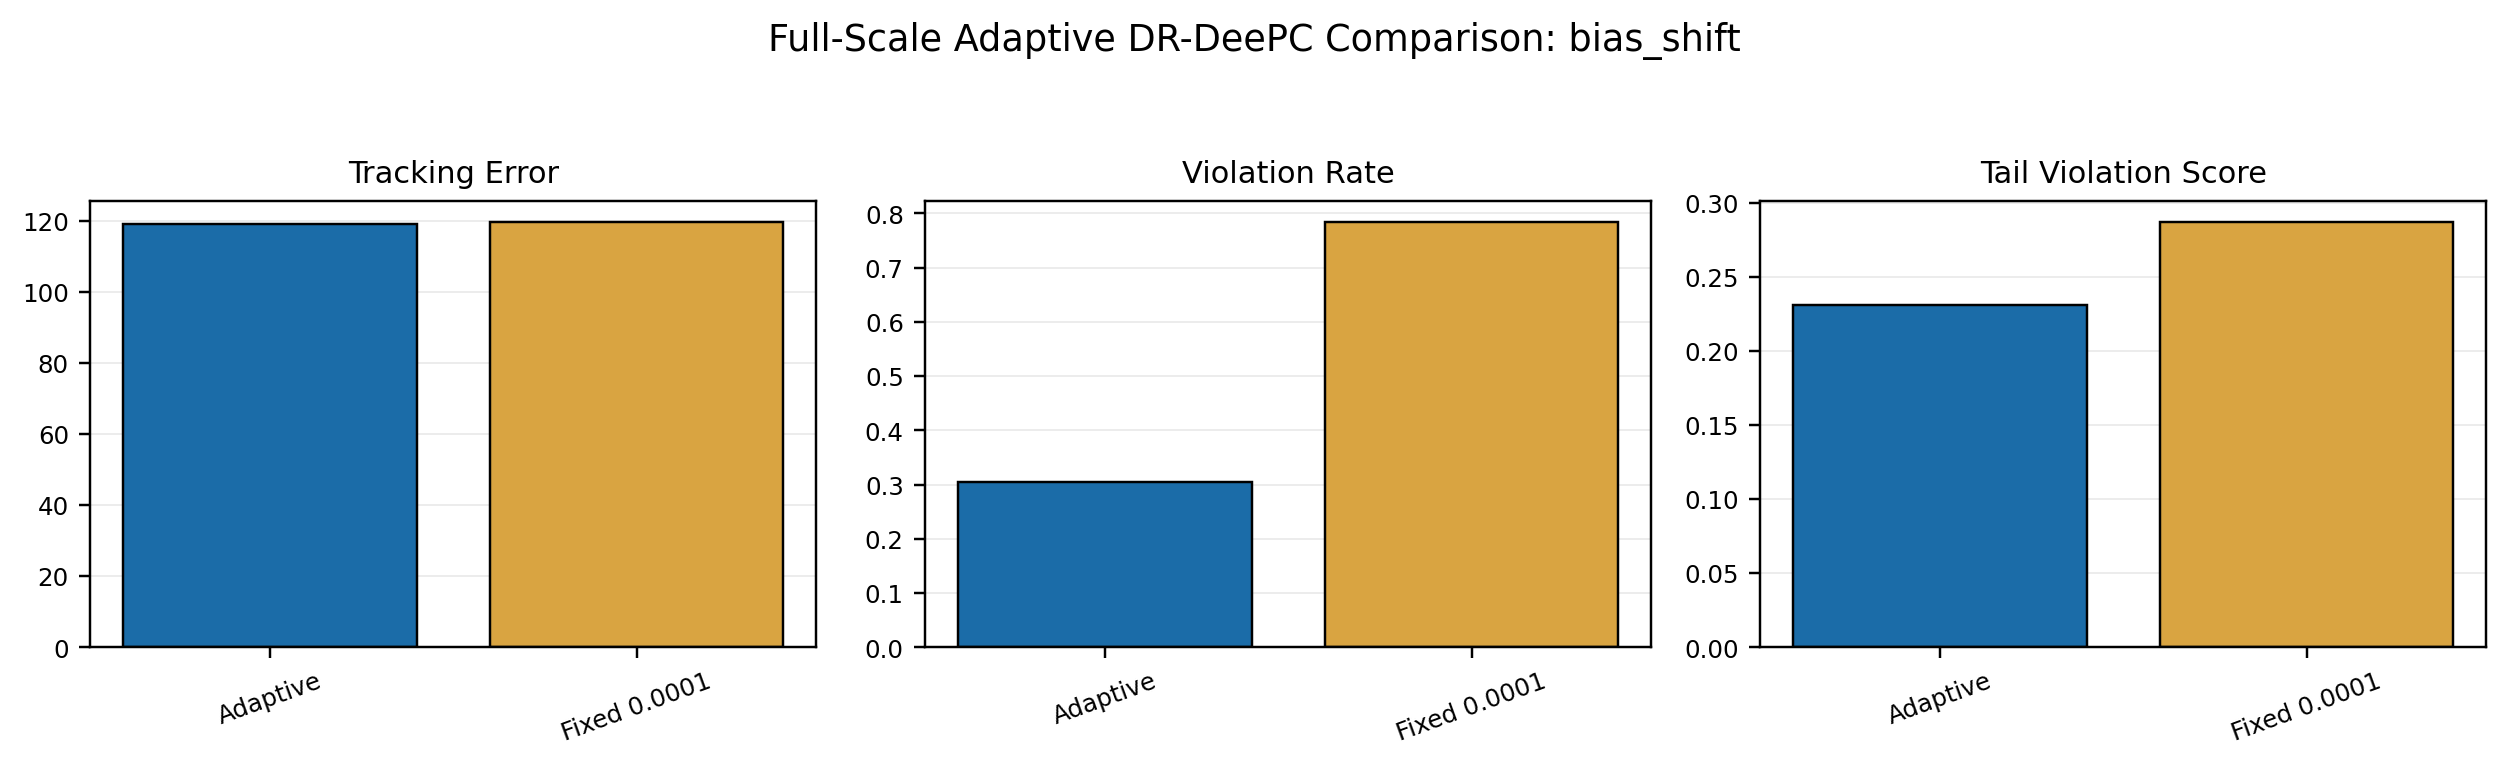
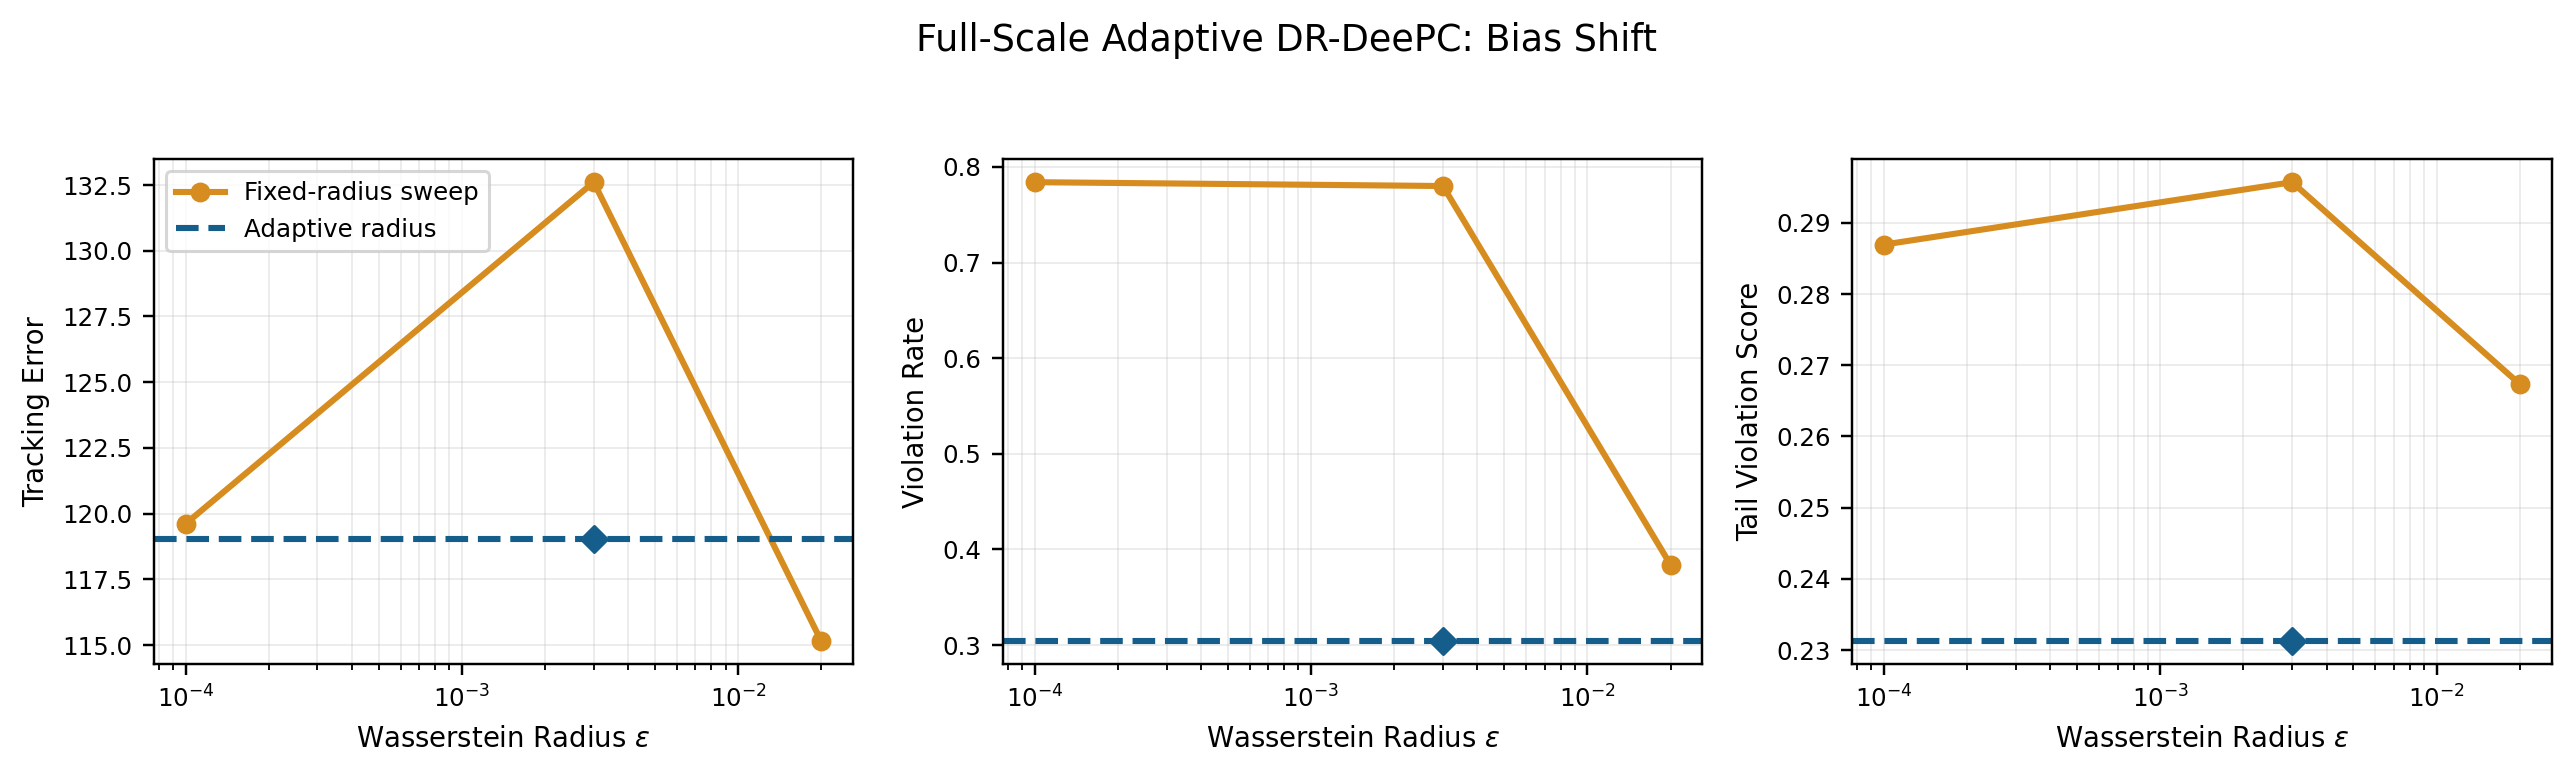
Replace bar charts with paper-style sweep figures

diff --git a/experiments/generate_adaptive_figures.py b/experiments/generate_adaptive_figures.py
@@ -9,6 +9,18 @@ import pandas as pd
 
 REPO_ROOT = Path(__file__).resolve().parents[1]
 
+SCENARIO_TITLES = {
+    "noise_jump": "Noise Jump",
+    "recovery": "Recovery",
+    "bias_shift": "Bias Shift",
+}
+
+METRICS = [
+    ("tracking_error", "Tracking Error"),
+    ("violation_rate", "Violation Rate"),
+    ("tail_violation_score", "Tail Violation Score"),
+]
+
 
 def parse_args() -> argparse.Namespace:
     parser = argparse.ArgumentParser(description="Generate paper figures for adaptive DR-DeePC comparisons.")
@@ -26,39 +38,58 @@ def parse_args() -> argparse.Namespace:
     return parser.parse_args()
 
 
-def tidy_label(name: str) -> str:
-    if name == "adaptive":
-        return "Adaptive"
-    if name.startswith("fixed_"):
-        return f"Fixed {name.split('_', 1)[1]}"
-    return name
+def _fixed_rows(frame: pd.DataFrame) -> pd.DataFrame:
+    fixed = frame[frame["controller_mode"].str.startswith("fixed_")].copy()
+    fixed["epsilon"] = fixed["epsilon_setting"].astype(float)
+    return fixed.sort_values("epsilon")
 
 
-def plot_scenario(frame: pd.DataFrame, scenario: str, output_dir: Path) -> None:
-    frame = frame.copy()
-    frame["label"] = frame["controller_mode"].map(tidy_label)
-    order = ["adaptive", "fixed_0.0001", "fixed_0.003", "fixed_0.02"]
-    frame["order"] = frame["controller_mode"].apply(lambda x: order.index(x) if x in order else len(order))
-    frame = frame.sort_values("order")
+def _adaptive_row(frame: pd.DataFrame) -> pd.Series:
+    return frame[frame["controller_mode"] == "adaptive"].iloc[0]
 
-    metrics = [
-        ("tracking_error", "Tracking Error"),
-        ("violation_rate", "Violation Rate"),
-        ("tail_violation_score", "Tail Violation Score"),
-    ]
 
-    fig, axes = plt.subplots(1, 3, figsize=(11.5, 3.5))
-    colors = ["#1b6ca8" if mode == "adaptive" else "#d9a441" for mode in frame["controller_mode"]]
+def plot_scenario_curve(frame: pd.DataFrame, scenario: str, output_dir: Path) -> None:
+    fixed = _fixed_rows(frame)
+    adaptive = _adaptive_row(frame)
 
-    for ax, (column, title) in zip(axes, metrics):
-        ax.bar(frame["label"], frame[column], color=colors, edgecolor="black", linewidth=0.8)
-        ax.set_title(title, fontsize=10)
-        ax.tick_params(axis="x", rotation=20, labelsize=8)
-        ax.tick_params(axis="y", labelsize=8)
-        ax.grid(axis="y", alpha=0.25, linewidth=0.6)
+    fig, axes = plt.subplots(1, 3, figsize=(11.8, 3.6))
+    for ax, (column, ylabel) in zip(axes, METRICS):
+        ax.plot(
+            fixed["epsilon"],
+            fixed[column],
+            color="#d68c1f",
+            marker="o",
+            linewidth=2.0,
+            markersize=5.5,
+            label="Fixed-radius sweep",
+        )
+        ax.axhline(
+            adaptive[column],
+            color="#155d8b",
+            linestyle="--",
+            linewidth=2.0,
+            label="Adaptive radius",
+        )
+        ax.scatter(
+            [adaptive["epsilon_setting"]],
+            [adaptive[column]],
+            color="#155d8b",
+            marker="D",
+            s=36,
+            zorder=4,
+        )
+        ax.set_xscale("log")
+        ax.set_xlabel(r"Wasserstein Radius $\epsilon$", fontsize=9)
+        ax.set_ylabel(ylabel, fontsize=9)
+        ax.tick_params(axis="both", labelsize=8)
+        ax.grid(True, which="both", alpha=0.25, linewidth=0.6)
         ax.set_axisbelow(True)
 
-    fig.suptitle(f"Full-Scale Adaptive DR-DeePC Comparison: {scenario}", fontsize=12)
+    axes[0].legend(loc="best", fontsize=8, frameon=True)
+    fig.suptitle(
+        f"Full-Scale Adaptive DR-DeePC: {SCENARIO_TITLES.get(scenario, scenario)}",
+        fontsize=12,
+    )
     fig.tight_layout(rect=[0, 0, 1, 0.94])
 
     output_dir.mkdir(parents=True, exist_ok=True)
@@ -68,14 +99,75 @@ def plot_scenario(frame: pd.DataFrame, scenario: str, output_dir: Path) -> None:
     plt.close(fig)
 
 
+def plot_overview(all_rows: pd.DataFrame, output_dir: Path) -> None:
+    scenarios = [s for s in ["noise_jump", "recovery", "bias_shift"] if s in set(all_rows["scenario"])]
+    if not scenarios:
+        return
+
+    fig, axes = plt.subplots(len(scenarios), 2, figsize=(9.2, 3.2 * len(scenarios)))
+    if len(scenarios) == 1:
+        axes = [axes]
+
+    for row_axes, scenario in zip(axes, scenarios):
+        frame = all_rows[all_rows["scenario"] == scenario]
+        fixed = _fixed_rows(frame)
+        adaptive = _adaptive_row(frame)
+
+        row_axes[0].plot(
+            fixed["epsilon"],
+            fixed["tracking_error"],
+            color="#d68c1f",
+            marker="o",
+            linewidth=2.0,
+            markersize=5,
+        )
+        row_axes[0].axhline(adaptive["tracking_error"], color="#155d8b", linestyle="--", linewidth=2.0)
+        row_axes[0].scatter([adaptive["epsilon_setting"]], [adaptive["tracking_error"]], color="#155d8b", marker="D", s=34)
+        row_axes[0].set_xscale("log")
+        row_axes[0].set_ylabel(f"{SCENARIO_TITLES.get(scenario, scenario)}\nTracking Error", fontsize=9)
+        row_axes[0].grid(True, which="both", alpha=0.25, linewidth=0.6)
+
+        row_axes[1].plot(
+            fixed["epsilon"],
+            fixed["violation_rate"],
+            color="#d68c1f",
+            marker="o",
+            linewidth=2.0,
+            markersize=5,
+            label="Fixed-radius sweep",
+        )
+        row_axes[1].axhline(adaptive["violation_rate"], color="#155d8b", linestyle="--", linewidth=2.0, label="Adaptive radius")
+        row_axes[1].scatter([adaptive["epsilon_setting"]], [adaptive["violation_rate"]], color="#155d8b", marker="D", s=34)
+        row_axes[1].set_xscale("log")
+        row_axes[1].set_ylabel("Violation Rate", fontsize=9)
+        row_axes[1].grid(True, which="both", alpha=0.25, linewidth=0.6)
+
+        for ax in row_axes:
+            ax.set_xlabel(r"Wasserstein Radius $\epsilon$", fontsize=9)
+            ax.tick_params(axis="both", labelsize=8)
+            ax.set_axisbelow(True)
+
+    axes[0][1].legend(loc="best", fontsize=8, frameon=True)
+    fig.suptitle("Adaptive Radius vs Fixed Radius Across Nonstationary Scenarios", fontsize=12)
+    fig.tight_layout(rect=[0, 0, 1, 0.96])
+    fig.savefig(output_dir / "adaptive_compare_overview.png", dpi=220, bbox_inches="tight")
+    fig.savefig(output_dir / "adaptive_compare_overview.pdf", bbox_inches="tight")
+    plt.close(fig)
+
+
 def main() -> None:
     args = parse_args()
     output_dir = Path(args.output_dir)
     frames = [pd.read_csv(Path(path)) for path in args.inputs]
     all_rows = pd.concat(frames, ignore_index=True)
+
     for scenario in sorted(all_rows["scenario"].unique()):
         scenario_frame = all_rows[all_rows["scenario"] == scenario]
-        plot_scenario(scenario_frame, scenario, output_dir)
+        if "adaptive" not in set(scenario_frame["controller_mode"]):
+            continue
+        plot_scenario_curve(scenario_frame, scenario, output_dir)
+
+    plot_overview(all_rows, output_dir)
 
 
 if __name__ == "__main__":

diff --git a/experiments/generate_baseline_figures.py b/experiments/generate_baseline_figures.py
@@ -1,0 +1,147 @@
+from __future__ import annotations
+
+import argparse
+from pathlib import Path
+
+import matplotlib.pyplot as plt
+import pandas as pd
+
+
+REPO_ROOT = Path(__file__).resolve().parents[1]
+
+
+def parse_args() -> argparse.Namespace:
+    parser = argparse.ArgumentParser(description="Generate paper figures for fixed-radius baseline studies.")
+    parser.add_argument(
+        "--nominal",
+        default=str(REPO_ROOT / "outputs" / "full_scale" / "paper_style_nominal_comparison_full.csv"),
+        help="Nominal full-scale comparison CSV.",
+    )
+    parser.add_argument(
+        "--n-comparison",
+        default=str(REPO_ROOT / "outputs" / "n_comparison_nominal.csv"),
+        help="N comparison CSV.",
+    )
+    parser.add_argument(
+        "--tini",
+        default=str(REPO_ROOT / "outputs" / "full_scale_tini3" / "paper_style_tini_sweep.csv"),
+        help="T_ini sweep CSV.",
+    )
+    parser.add_argument(
+        "--output-dir",
+        default=str(REPO_ROOT / "paper" / "figures"),
+        help="Directory where figures will be written.",
+    )
+    return parser.parse_args()
+
+
+def _nominal_fixed(frame: pd.DataFrame) -> pd.DataFrame:
+    fixed = frame[frame["controller_mode"].str.startswith("fixed_")].copy()
+    fixed["epsilon"] = fixed["epsilon_setting"].astype(float)
+    return fixed.sort_values("epsilon")
+
+
+def _nominal_adaptive(frame: pd.DataFrame) -> pd.Series:
+    return frame[frame["controller_mode"] == "adaptive"].iloc[0]
+
+
+def plot_nominal_epsilon(frame: pd.DataFrame, output_dir: Path) -> None:
+    fixed = _nominal_fixed(frame)
+    adaptive = _nominal_adaptive(frame)
+
+    fig, axes = plt.subplots(1, 3, figsize=(11.8, 3.6))
+    metrics = [
+        ("tracking_error", "Tracking Error"),
+        ("violation_rate", "Violation Rate"),
+        ("tail_violation_score", "Tail Violation Score"),
+    ]
+    for ax, (col, title) in zip(axes, metrics):
+        ax.plot(fixed["epsilon"], fixed[col], color="#c97b16", marker="o", linewidth=2.0)
+        ax.axhline(adaptive[col], color="#155d8b", linestyle="--", linewidth=2.0)
+        ax.scatter([adaptive["epsilon_setting"]], [adaptive[col]], color="#155d8b", marker="D", s=34)
+        ax.set_xscale("log")
+        ax.set_xlabel(r"Wasserstein Radius $\epsilon$", fontsize=9)
+        ax.set_ylabel(title, fontsize=9)
+        ax.tick_params(axis="both", labelsize=8)
+        ax.grid(True, which="both", alpha=0.25, linewidth=0.6)
+        ax.set_axisbelow(True)
+    fig.suptitle("Full-Scale Nominal Radius Sensitivity", fontsize=12)
+    fig.tight_layout(rect=[0, 0, 1, 0.94])
+    fig.savefig(output_dir / "baseline_nominal_epsilon.png", dpi=220, bbox_inches="tight")
+    fig.savefig(output_dir / "baseline_nominal_epsilon.pdf", bbox_inches="tight")
+    plt.close(fig)
+
+
+def plot_n_comparison(frame: pd.DataFrame, output_dir: Path) -> None:
+    keep = frame[frame["epsilon_setting"].isin([0.0001, 0.001, 0.003, 0.01, 0.02])]
+    pivots = {}
+    for metric in ["tracking_error", "violation_rate", "tail_violation_score"]:
+        pivots[metric] = keep.pivot_table(index="epsilon_setting", columns="dataset", values=metric, aggfunc="mean").sort_index()
+
+    fig, axes = plt.subplots(1, 3, figsize=(11.8, 3.6))
+    for ax, (metric, ylabel) in zip(
+        axes,
+        [
+            ("tracking_error", "Tracking Error"),
+            ("violation_rate", "Violation Rate"),
+            ("tail_violation_score", "Tail Violation Score"),
+        ],
+    ):
+        pivot = pivots[metric]
+        for dataset, color, marker in [("N1", "#7f3c8d", "s"), ("N10", "#11a579", "o")]:
+            if dataset in pivot.columns:
+                ax.plot(pivot.index, pivot[dataset], color=color, marker=marker, linewidth=2.0, label=dataset)
+        ax.set_xscale("log")
+        ax.set_xlabel(r"Fixed Radius $\epsilon$", fontsize=9)
+        ax.set_ylabel(ylabel, fontsize=9)
+        ax.tick_params(axis="both", labelsize=8)
+        ax.grid(True, which="both", alpha=0.25, linewidth=0.6)
+        ax.set_axisbelow(True)
+    axes[0].legend(loc="best", fontsize=8, frameon=True)
+    fig.suptitle("Effect of Offline Batch Count in Nominal Comparison", fontsize=12)
+    fig.tight_layout(rect=[0, 0, 1, 0.94])
+    fig.savefig(output_dir / "baseline_n_comparison.png", dpi=220, bbox_inches="tight")
+    fig.savefig(output_dir / "baseline_n_comparison.pdf", bbox_inches="tight")
+    plt.close(fig)
+
+
+def plot_tini(frame: pd.DataFrame, output_dir: Path) -> None:
+    frame = frame.sort_values("t_ini")
+    fig, axes = plt.subplots(1, 3, figsize=(11.8, 3.6))
+    for ax, (col, ylabel, color) in zip(
+        axes,
+        [
+            ("tracking_error", "Tracking Error", "#155d8b"),
+            ("violation_rate", "Violation Rate", "#c97b16"),
+            ("tail_violation_score", "Tail Violation Score", "#2f6f3e"),
+        ],
+    ):
+        ax.plot(frame["t_ini"], frame[col], color=color, marker="o", linewidth=2.0)
+        ax.set_xlabel(r"Initialization Window $T_{\mathrm{ini}}$", fontsize=9)
+        ax.set_ylabel(ylabel, fontsize=9)
+        ax.tick_params(axis="both", labelsize=8)
+        ax.grid(True, alpha=0.25, linewidth=0.6)
+        ax.set_axisbelow(True)
+    fig.suptitle(r"Full-Scale Sensitivity to $T_{\mathrm{ini}}$", fontsize=12)
+    fig.tight_layout(rect=[0, 0, 1, 0.94])
+    fig.savefig(output_dir / "baseline_tini_sweep.png", dpi=220, bbox_inches="tight")
+    fig.savefig(output_dir / "baseline_tini_sweep.pdf", bbox_inches="tight")
+    plt.close(fig)
+
+
+def main() -> None:
+    args = parse_args()
+    output_dir = Path(args.output_dir)
+    output_dir.mkdir(parents=True, exist_ok=True)
+
+    nominal = pd.read_csv(Path(args.nominal))
+    n_comparison = pd.read_csv(Path(args.n_comparison))
+    tini = pd.read_csv(Path(args.tini))
+
+    plot_nominal_epsilon(nominal, output_dir)
+    plot_n_comparison(n_comparison, output_dir)
+    plot_tini(tini, output_dir)
+
+
+if __name__ == "__main__":
+    main()

diff --git a/paper/adaptive_wasserstein_radius_deepc_ieee_draft.tex b/paper/adaptive_wasserstein_radius_deepc_ieee_draft.tex
@@ -309,9 +309,30 @@ The current implementation already supports the same core sensitivity studies th
 \subsection{Fixed-Radius Baseline Observations}
 The full-scale nominal radius sweep already shows a clear performance-safety trade-off. For example, a very small fixed radius $\epsilon=10^{-4}$ yields tracking error $127.31$ but a high violation rate of $0.784$, whereas a more conservative fixed radius $\epsilon=0.02$ reduces the violation rate to $0.396$ and yields tracking error $118.20$. These preliminary results confirm the practical importance of radius selection and support the claim that a single fixed ambiguity radius may be inadequate across operating regimes.
 
+\begin{figure}[t]
+    \centering
+    \includegraphics[width=\linewidth]{figures/baseline_nominal_epsilon.pdf}
+    \caption{Full-scale nominal sensitivity to the fixed Wasserstein radius. In the revised plotting style, the fixed-radius results are shown as parameter curves and the adaptive controller is shown as a horizontal reference.}
+    \label{fig:baseline-nominal-epsilon}
+\end{figure}
+
 The batch-count study also indicates that repeated offline experiments matter. In the nominal comparison, the adaptive controller with $N=10$ achieves tracking error $120.36$ and violation rate $0.324$, whereas the analogous $N=1$ adaptive setting yields tracking error $147.87$ and violation rate $0.572$. This is consistent with the intuition that richer repeated data improve the reliability of the empirical distribution and reduce sensitivity to ambiguity-set misspecification.
 
+\begin{figure}[t]
+    \centering
+    \includegraphics[width=\linewidth]{figures/baseline_n_comparison.pdf}
+    \caption{Effect of the number of repeated offline experiments on the nominal fixed-radius sweep. The larger batch count improves the performance-risk profile for several radius choices.}
+    \label{fig:baseline-n-comparison}
+\end{figure}
+
 The $T_{\mathrm{ini}}$ sweep has now been completed for $T_{\mathrm{ini}} \in \{1,\dots,10\}$ and reveals a strongly non-monotone dependence on the initialization window. Some settings, such as $T_{\mathrm{ini}}=5$ and $T_{\mathrm{ini}}=8$, produce zero empirical violations in the current benchmark, whereas other settings produce both large tracking errors and large tail-risk scores. This reinforces the need to separate radius adaptation effects from data-window design effects when interpreting closed-loop performance.
+
+\begin{figure}[t]
+    \centering
+    \includegraphics[width=\linewidth]{figures/baseline_tini_sweep.pdf}
+    \caption{Sensitivity of the full-scale benchmark to the initialization window $T_{\mathrm{ini}}$. The dependence is highly non-monotone, which motivates analyzing adaptive-radius effects separately from data-window tuning effects.}
+    \label{fig:baseline-tini}
+\end{figure}
 
 \subsection{Preliminary Adaptive-Radius Results}
 The adaptive-radius study has already produced a first set of full-scale nonstationary comparisons. Under the noise-jump scenario, the adaptive controller achieves tracking error $144.48$, violation rate $0.400$, and tail violation score $0.2387$, while the aggressive fixed-radius baseline with $\epsilon=10^{-4}$ yields tracking error $161.46$, violation rate $0.784$, and tail violation score $0.3882$. A moderate fixed radius $\epsilon=0.02$ reduces the violation rate relative to the aggressive baseline, but still remains less safe than the adaptive controller, with tracking error $138.24$, violation rate $0.480$, and tail violation score $0.2813$. The intermediate fixed-radius case $\epsilon=0.003$ performs particularly poorly in the current run, with tracking error $185.99$ and violation rate $0.780$. These results reinforce that a nominally reasonable fixed radius may still fail to generalize well under disturbance changes.
@@ -332,7 +353,7 @@ The second full-scale nonstationary comparison considers a recovery scenario in 
     \label{fig:recovery-compare}
 \end{figure}
 
-The third full-scale nonstationary comparison introduces a measurement-bias shift. In the currently completed comparison, the adaptive controller achieves tracking error $119.03$, violation rate $0.304$, and tail violation score $0.2312$, whereas the aggressive fixed-radius baseline with $\epsilon=10^{-4}$ yields tracking error $119.61$, violation rate $0.784$, and tail violation score $0.2869$. This result is encouraging because it suggests that the adaptive controller can retain comparable nominal-performance levels while significantly reducing the frequency and severity of constraint violations under biased measurements.
+The third full-scale nonstationary comparison introduces a measurement-bias shift. In this case, the adaptive controller achieves tracking error $119.03$, violation rate $0.304$, and tail violation score $0.2312$. The aggressive fixed-radius baseline with $\epsilon=10^{-4}$ yields tracking error $119.61$, violation rate $0.784$, and tail violation score $0.2869$, while the intermediate fixed-radius case $\epsilon=0.003$ degrades further to tracking error $132.61$ with violation rate $0.780$. A more conservative fixed radius $\epsilon=0.02$ improves the tracking error to $115.14$ and reduces the violation rate to $0.384$, but still remains less safe than the adaptive controller. This result is encouraging because it suggests that the adaptive controller can retain comparable nominal-performance levels while significantly reducing the frequency and severity of constraint violations under biased measurements.
 
 \begin{figure}[t]
     \centering
